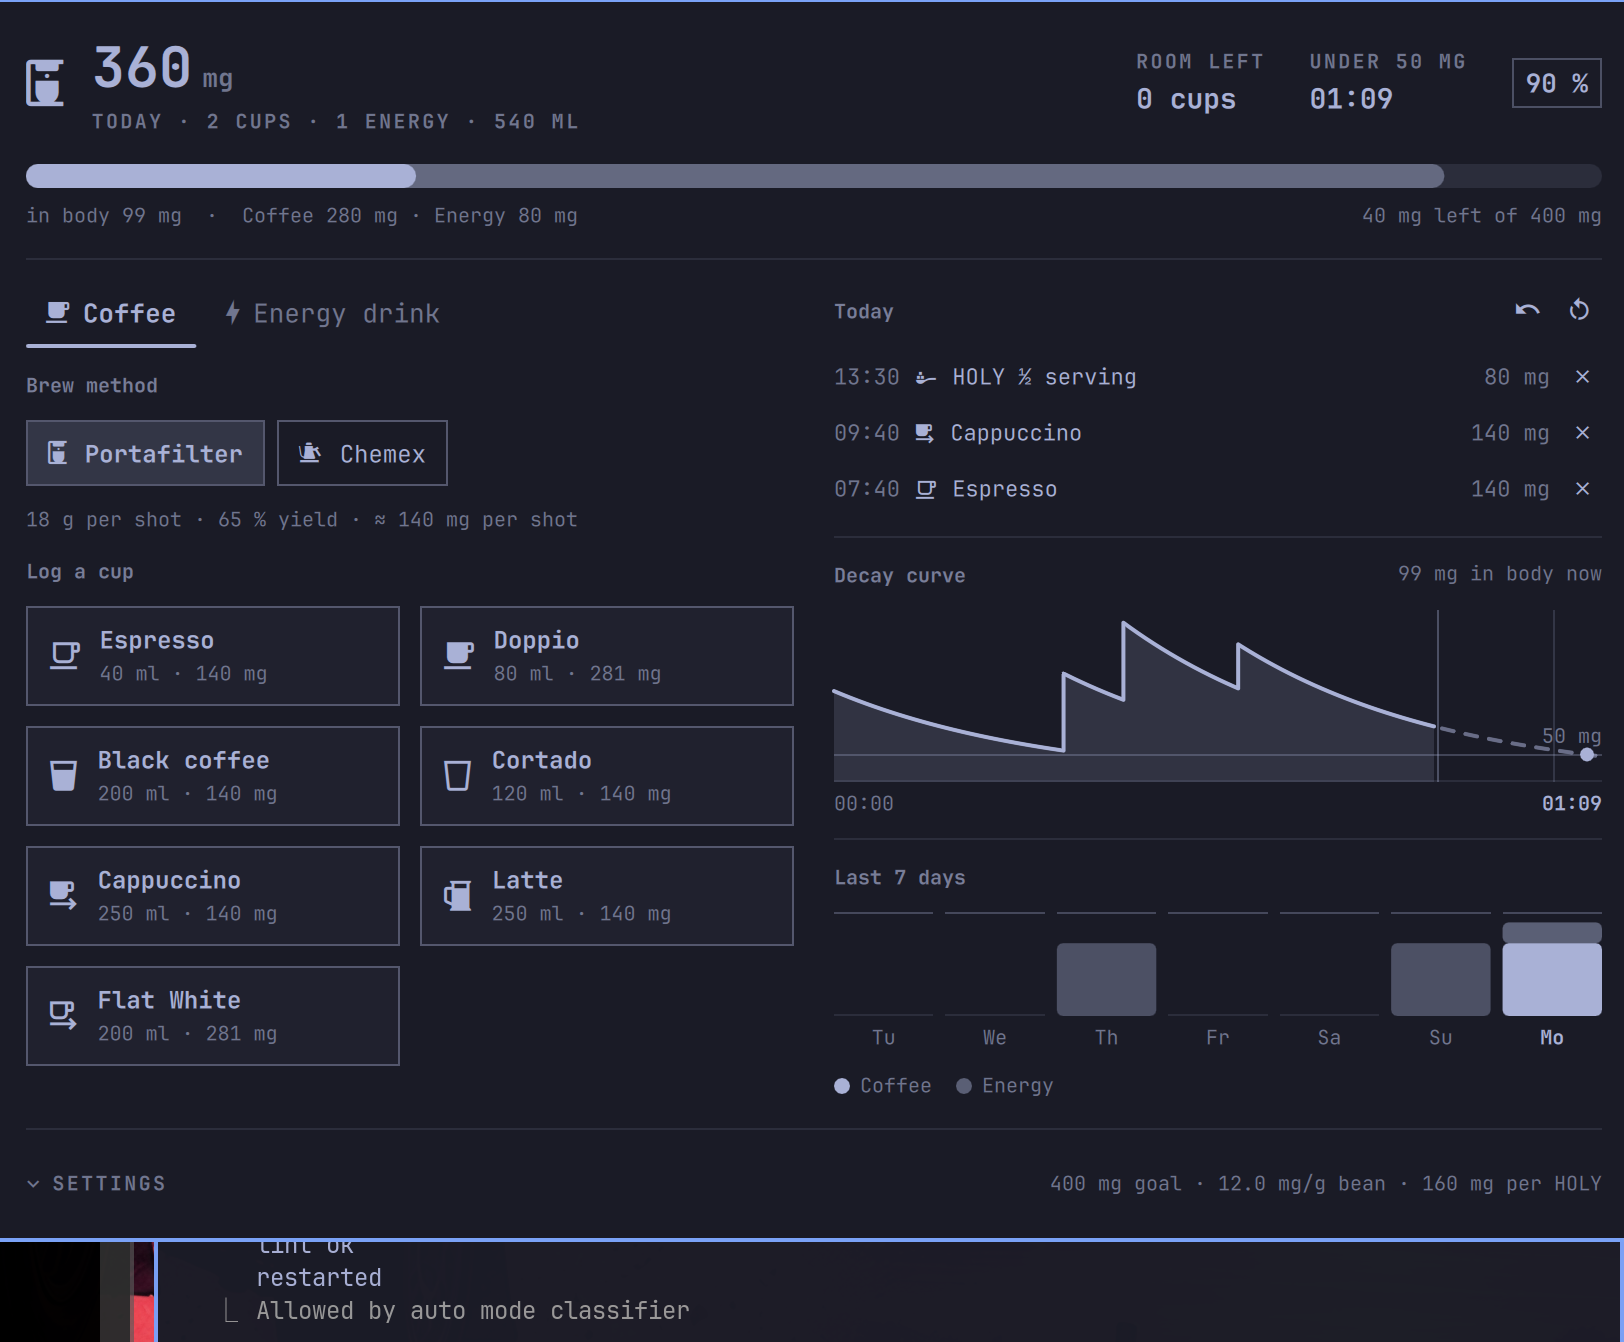
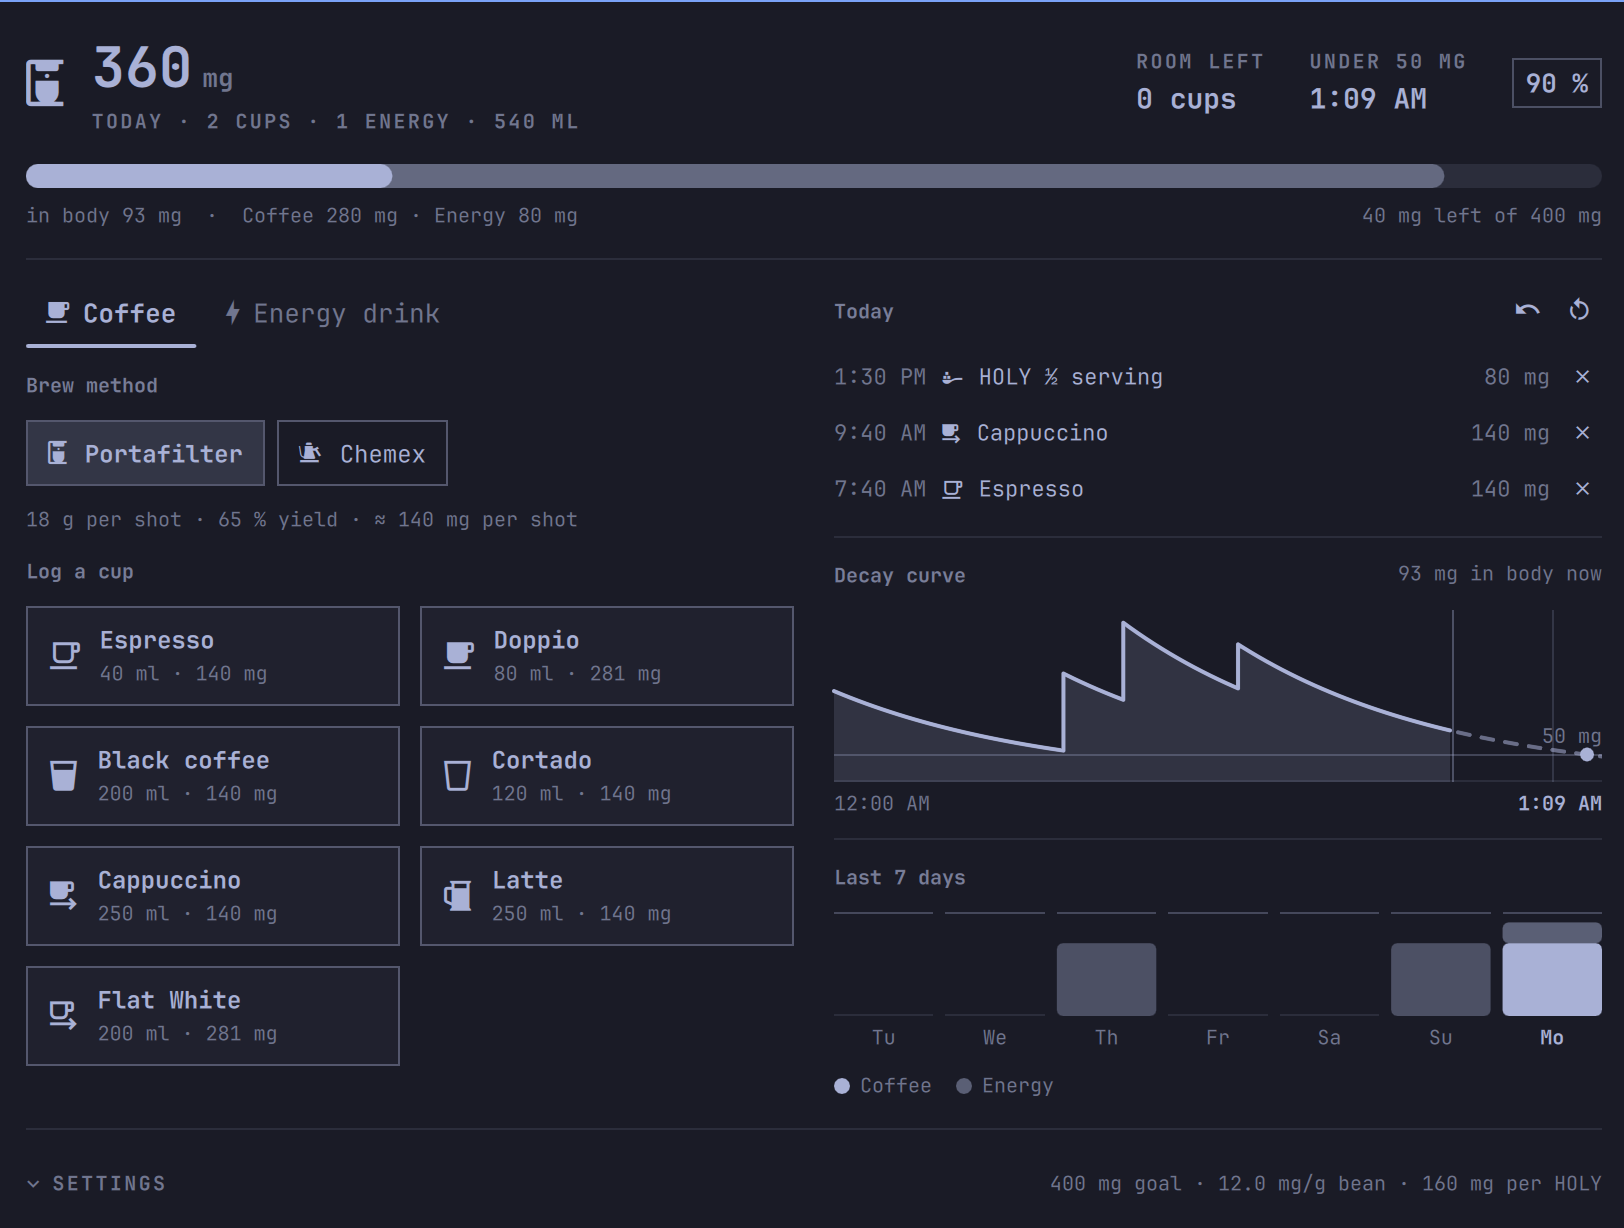
Take the clock from the locale file too
Every time in the panel was formatted "HH:mm", which is a 24-hour clock no
matter what language the panel is speaking. An English UI printing 21:10
is half-translated in the same way one printing 12,5 mg/g in German would
be, so the format joins the decimal mark as a meta key.

- meta.timeFormat holds a Qt time format: "HH:mm" in de.json, "h:mm AP" in
  en.json. I18n.time() applies it, BarWidget forwards it as formatTime().
- Affects all four places a time is shown: the clear-by time in the header
  and the bar tooltip, the log rows, and both ends of the curve's axis.
- DecayChart now takes its axis end labels pre-formatted, like every other
  label it renders, so it stays free of any i18n knowledge.

Renames the axis Text ids to *Tick. They were named after the properties
they render, which put an id and a property of the same name in one scope
— it resolved correctly only because every read was qualified.

Also refreshes preview.png, which still showed the 24-hour times.

Claude-Session: https://claude.ai/code/session_01RdmYh3eb4JSHzwwc5rz9gT

diff --git a/DecayChart.qml b/DecayChart.qml
@@ -38,6 +38,8 @@ Item {
   property string clearAtLabel: ""
   property string thresholdLabel: ""
   property string midnightLabel: ""
+  property string startLabel: ""
+  property string endLabel: ""
 
   property color foreground: "white"
   property color dim: "gray"
@@ -235,7 +237,7 @@ Item {
     anchors.top: plot.bottom
     anchors.topMargin: 4
     width: parent.width
-    implicitHeight: startLabel.implicitHeight
+    implicitHeight: startTick.implicitHeight
 
     readonly property real gap: 8
 
@@ -245,9 +247,9 @@ Item {
     }
 
     Text {
-      id: startLabel
+      id: startTick
       anchors.left: parent.left
-      text: root.ready ? Qt.formatDateTime(new Date(root.startMs), "HH:mm") : ""
+      text: root.ready ? root.startLabel : ""
       color: root.dim
       font.family: root.fontFamily
       font.pixelSize: root.fontSize
@@ -258,9 +260,9 @@ Item {
     // just after midnight would otherwise lose it to the day label sitting
     // an hour to its left.
     Text {
-      id: crossingLabel
+      id: crossingTick
       x: axisRow.clampedX(root.clearAtMs, implicitWidth)
-      visible: crossing.visible && x > startLabel.width + axisRow.gap
+      visible: crossing.visible && x > startTick.width + axisRow.gap
       text: root.clearAtLabel
       color: root.accent
       font.family: root.fontFamily
@@ -271,13 +273,13 @@ Item {
     // Gives way to the crossing. The day boundary keeps its line in the
     // plot either way, so dropping the label costs the reading nothing.
     Text {
-      id: midnightLabel
+      id: midnightTick
       x: axisRow.clampedX(root.midnightMs, implicitWidth)
       visible: root.midnightVisible
-        && x > startLabel.width + axisRow.gap
-        && !(crossingLabel.visible
-          && x < crossingLabel.x + crossingLabel.width + axisRow.gap
-          && crossingLabel.x < x + width + axisRow.gap)
+        && x > startTick.width + axisRow.gap
+        && !(crossingTick.visible
+          && x < crossingTick.x + crossingTick.width + axisRow.gap
+          && crossingTick.x < x + width + axisRow.gap)
       text: root.midnightLabel
       color: root.dim
       font.family: root.fontFamily
@@ -287,13 +289,13 @@ Item {
     // Last in line, and the least missed: the window ends half an hour
     // after the crossing by construction.
     Text {
-      id: endLabel
+      id: endTick
       anchors.right: parent.right
       visible: root.ready
-        && !(crossingLabel.visible && crossingLabel.x + crossingLabel.width + axisRow.gap > x)
-        && !(midnightLabel.visible && midnightLabel.x + midnightLabel.width + axisRow.gap > x)
-        && x > startLabel.width + axisRow.gap
-      text: Qt.formatDateTime(new Date(root.endMs), "HH:mm")
+        && !(crossingTick.visible && crossingTick.x + crossingTick.width + axisRow.gap > x)
+        && !(midnightTick.visible && midnightTick.x + midnightTick.width + axisRow.gap > x)
+        && x > startTick.width + axisRow.gap
+      text: root.endLabel
       color: root.dim
       font.family: root.fontFamily
       font.pixelSize: root.fontSize

diff --git a/Panel.qml b/Panel.qml
@@ -772,7 +772,7 @@ Panel {
 
                       Text {
                         anchors.verticalCenter: parent.verticalCenter
-                        text: Qt.formatDateTime(new Date(logRow.modelData.t), "HH:mm")
+                        text: root.host ? root.host.formatTime(logRow.modelData.t) : ""
                         color: root.dim
                         font.family: root.contentFontFamily
                         font.pixelSize: Style.font.bodySmall
@@ -880,6 +880,8 @@ Panel {
                 midnightLabel: root.host
                   ? root.t("day.short." + new Date(root.host.curveStartMs + 86400000).getDay())
                   : ""
+                startLabel: root.host ? root.host.formatTime(root.host.curveStartMs) : ""
+                endLabel: root.host ? root.host.formatTime(root.host.curveEndMs) : ""
 
                 foreground: root.contentForeground
                 dim: root.dim

diff --git a/BarWidget.qml b/BarWidget.qml
@@ -67,6 +67,9 @@ BarWidget {
   function t(key) {
     return root.i18n.t.apply(root.i18n, arguments)
   }
+  function formatTime(ms) {
+    return root.i18n.time(ms)
+  }
 
   readonly property string logPath: (Quickshell.env("XDG_STATE_HOME") || Quickshell.env("HOME") + "/.local/state")
     + "/omarchy/coffee-log.json"
@@ -321,7 +324,7 @@ BarWidget {
     if (todayEntries.length === 0 && activeMg <= 0) return t("unit.none")
     if (clearAtMs < 0) return t("unit.over24h")
     if (clearAtMs <= now + 60000) return t("unit.now")
-    return Qt.formatDateTime(new Date(clearAtMs), "HH:mm")
+    return formatTime(clearAtMs)
   }
 
   // ---- Week strip. Split by source so the columns show where the day's

diff --git a/I18n.qml b/I18n.qml
@@ -60,6 +60,16 @@ QtObject {
 
   readonly property string decimalSeparator: t("meta.decimalSeparator")
 
+  // Clock convention, from the locale file rather than from Qt: "HH:mm"
+  // where the day runs to 24, "h:mm AP" where it runs twice to 12. Same
+  // reasoning as the decimal mark — a panel speaking English that prints
+  // 21:10 is as half-translated as one printing 12.5 in German.
+  readonly property string timeFormat: t("meta.timeFormat")
+
+  function time(ms) {
+    return Qt.formatDateTime(new Date(ms), timeFormat)
+  }
+
   // FileView wants a filesystem path, and the locale files sit next to this
   // component wherever the plugin was installed.
   function localePath(code) {

diff --git a/README.md b/README.md
@@ -118,7 +118,8 @@ the bar label and the limit notification. They are written to
 
 The interface ships in English and German and picks one from your session
 locale. Override it in the panel under **Language / Sprache**, where
-`System` means "follow the locale".
+`System` means "follow the locale". The language also decides the decimal
+mark and the clock: English shows `8:53 AM`, German `08:53`.
 
 ### Adding a language
 
@@ -129,8 +130,11 @@ Every user-facing string lives in `locales/<code>.json` as a flat
    Leave the keys alone.
 2. Keep the positional placeholders (`%1`, `%2`, `%3`) — they are filled with
    numbers and names in order, and a sentence can reorder them freely.
-3. Set `meta.name` to the language's name in that language, and
-   `meta.decimalSeparator` to `.` or `,` as that language writes decimals.
+3. Set the three `meta.` keys: `meta.name` to the language's name in that
+   language, `meta.decimalSeparator` to `.` or `,` as that language writes
+   decimals, and `meta.timeFormat` to a
+   [Qt time format](https://doc.qt.io/qt-6/qtime.html#toString) — `HH:mm`
+   for a 24-hour clock, `h:mm AP` for a 12-hour one with AM/PM.
 4. Add the code to `available` in `I18n.qml` — one line, and it appears in
    the panel's picker.
 5. Run the checker:
